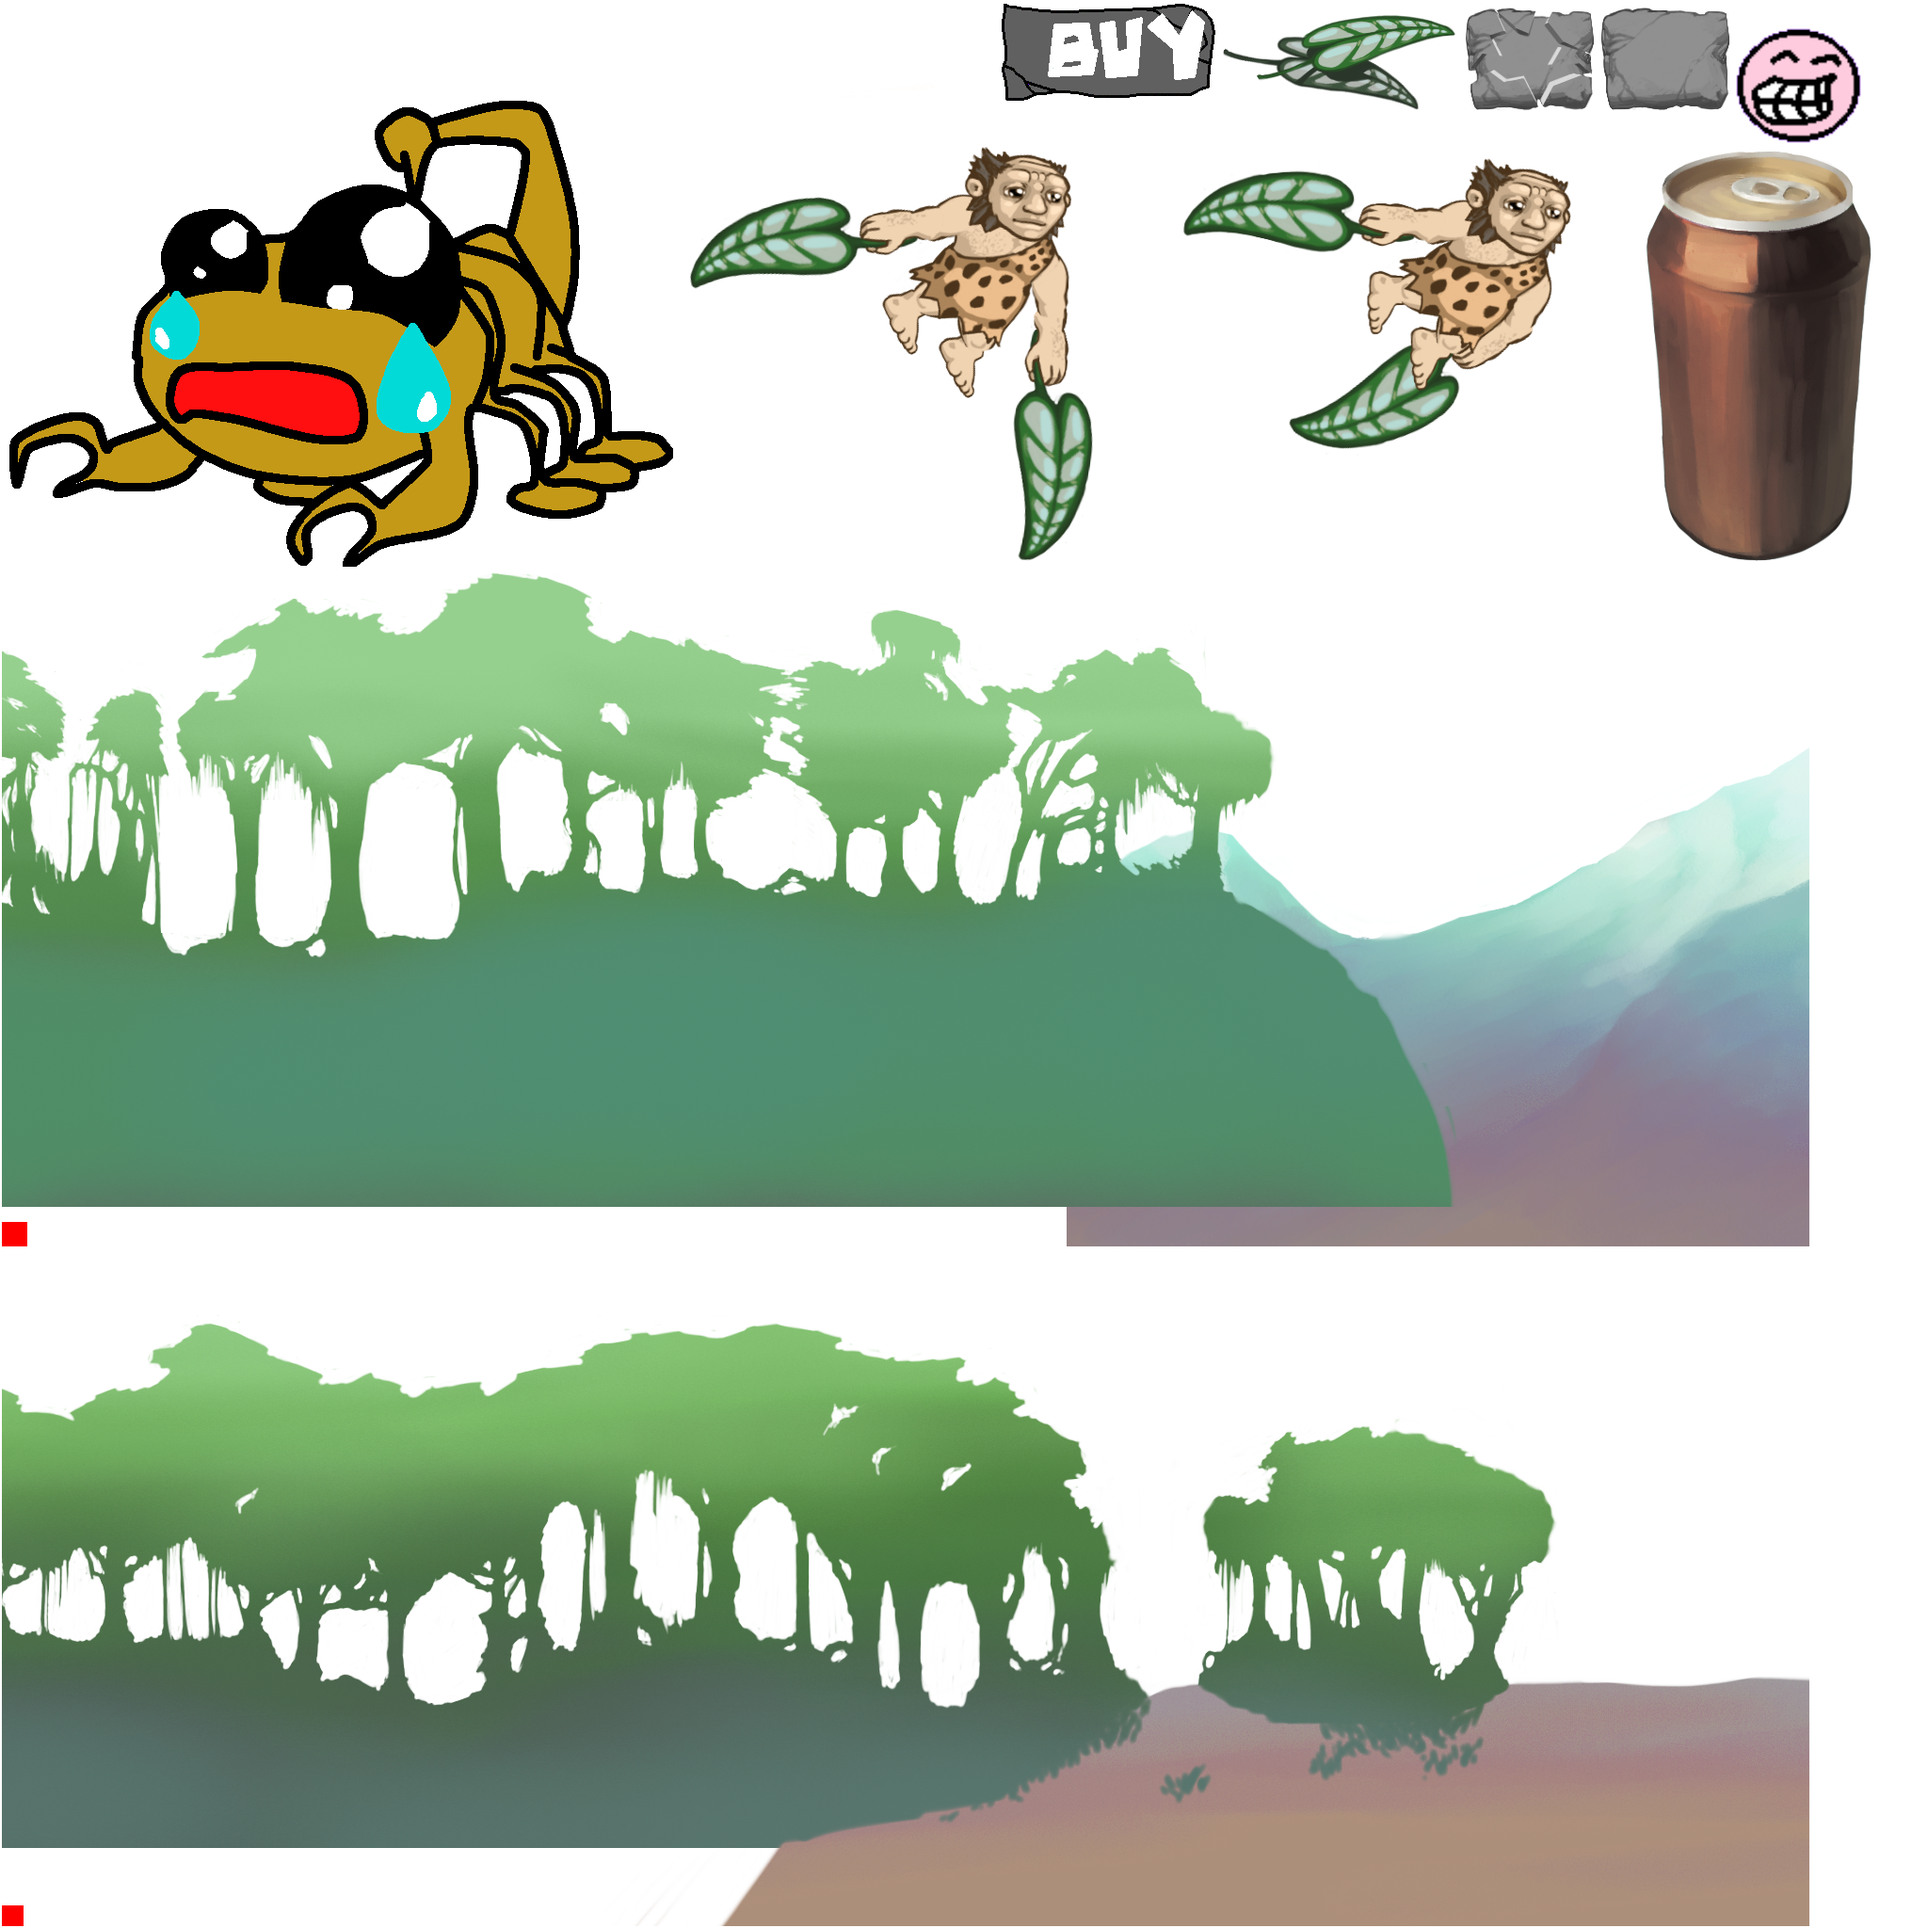
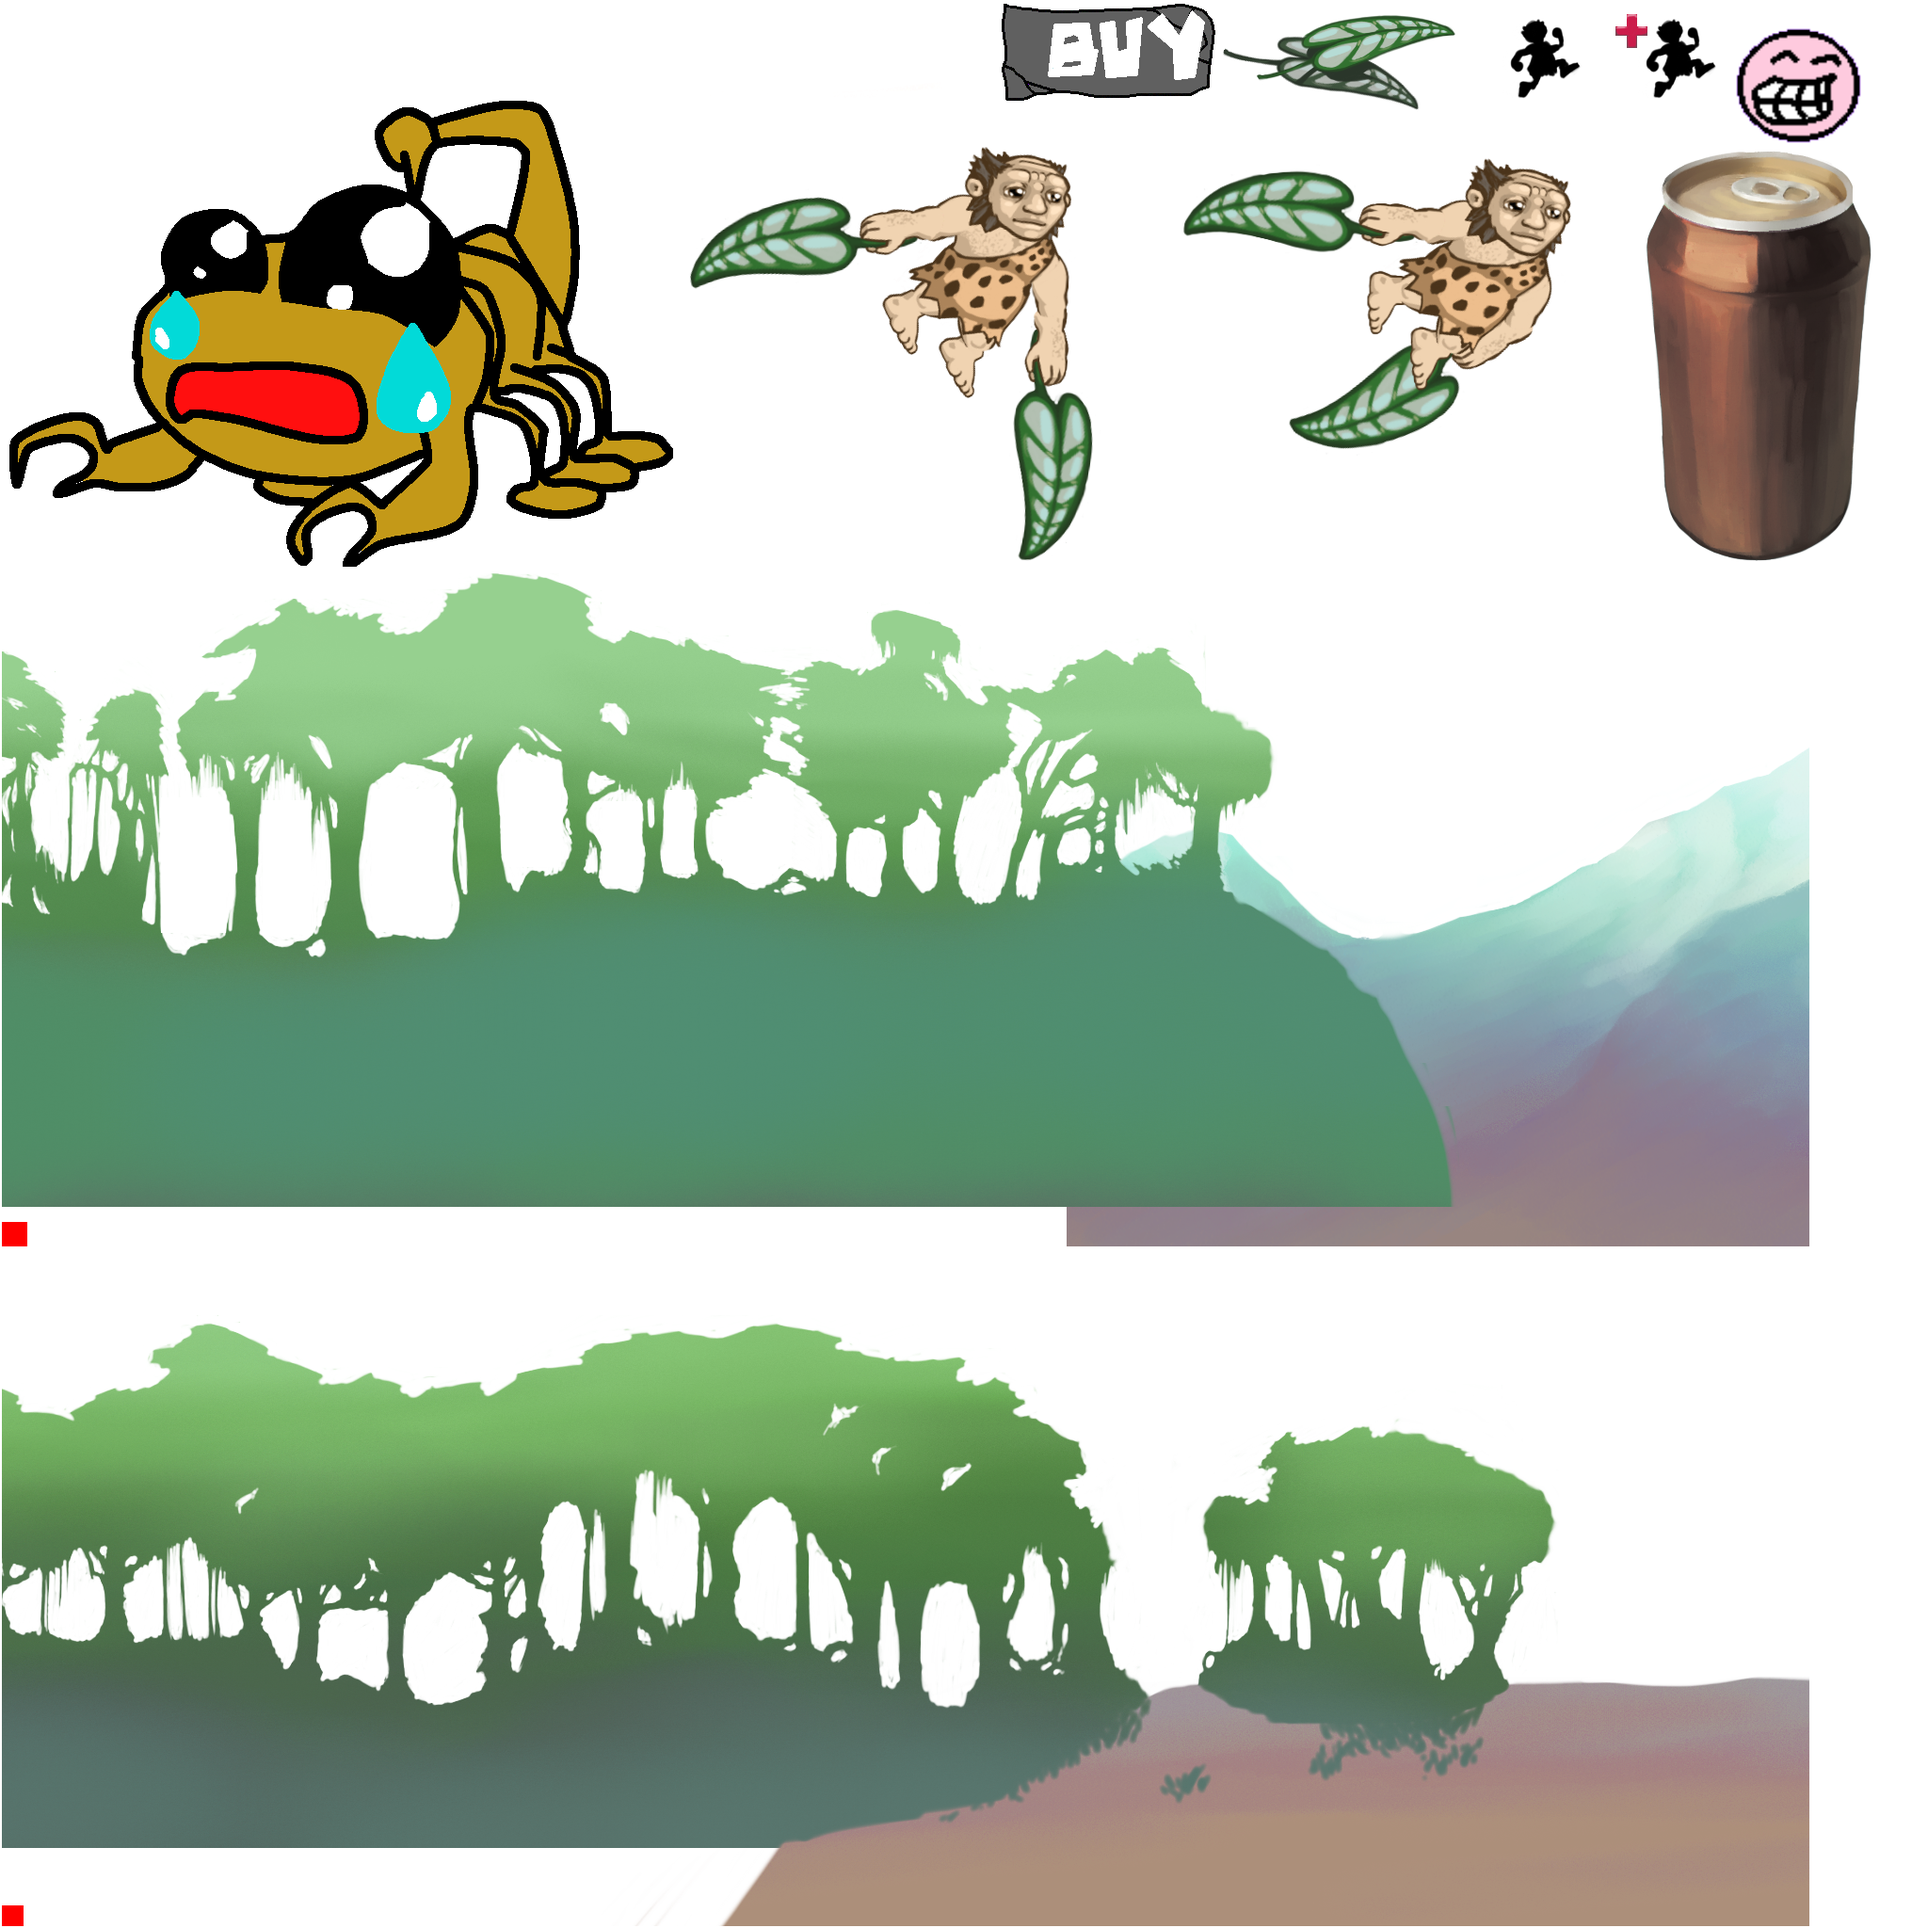
:trihard: shop button have feedback now... looks weird, but well...

Changed region(s): [[0.75, 0.0, 0.9062, 0.0625]]

diff --git a/core/src/com/deeep/flycaveman/widgets/ShopWidget.java b/core/src/com/deeep/flycaveman/widgets/ShopWidget.java
@@ -78,13 +78,13 @@ public class ShopWidget {
         retryButton.setPosition(0, 0);
         shopDialog.addActor(retryButton);
 
-        ImageButton.ImageButtonStyle wingsStyle = new ImageButton.ImageButtonStyle(Assets.skin.get(Button.ButtonStyle.class));
+        ImageButton.ImageButtonStyle wingsStyle = new ImageButton.ImageButtonStyle(Assets.skin.get("shop", Button.ButtonStyle.class));
         wingsStyle.imageUp = new TextureRegionDrawable(Assets.wings);
-        wingsStyle.imageUp.setMinWidth(140);
-        wingsStyle.imageUp.setMinHeight(140);
+        wingsStyle.imageUp.setMinWidth(100);
+        wingsStyle.imageUp.setMinHeight(100);
         wingsStyle.imageDown = new TextureRegionDrawable(Assets.wings);
-        wingsStyle.imageDown.setMinWidth(140);
-        wingsStyle.imageDown.setMinHeight(140);
+        wingsStyle.imageDown.setMinWidth(100);
+        wingsStyle.imageDown.setMinHeight(100);
         ImageButton wingsButton = new ImageButton(wingsStyle);
         wingsButton.addListener(new ClickListener() {
             @Override
@@ -96,13 +96,13 @@ public class ShopWidget {
         wingsButton.setPosition(50, shopDialog.getHeight() / 2 + 38);
         shopDialog.addActor(wingsButton);
 
-        ImageButton.ImageButtonStyle steroidsStyle = new ImageButton.ImageButtonStyle(Assets.skin.get(Button.ButtonStyle.class));
+        ImageButton.ImageButtonStyle steroidsStyle = new ImageButton.ImageButtonStyle(Assets.skin.get("shop", Button.ButtonStyle.class));
         steroidsStyle.imageUp = new TextureRegionDrawable(Assets.steroids);
-        steroidsStyle.imageUp.setMinWidth(140);
-        steroidsStyle.imageUp.setMinHeight(140);
+        steroidsStyle.imageUp.setMinWidth(100);
+        steroidsStyle.imageUp.setMinHeight(100);
         steroidsStyle.imageDown = new TextureRegionDrawable(Assets.steroids);
-        steroidsStyle.imageDown.setMinWidth(140);
-        steroidsStyle.imageDown.setMinHeight(140);
+        steroidsStyle.imageDown.setMinWidth(100);
+        steroidsStyle.imageDown.setMinHeight(100);
         ImageButton steroidsButton = new ImageButton(steroidsStyle);
         steroidsButton.addListener(new ClickListener() {
             @Override
@@ -114,13 +114,13 @@ public class ShopWidget {
         steroidsButton.setPosition(50 + 15 + 20 + wingsButton.getWidth() + 35, shopDialog.getHeight() / 2 + 38);
         shopDialog.addActor(steroidsButton);
 
-        ImageButton.ImageButtonStyle staminaplusStyle = new ImageButton.ImageButtonStyle(Assets.skin.get(Button.ButtonStyle.class));
+        ImageButton.ImageButtonStyle staminaplusStyle = new ImageButton.ImageButtonStyle(Assets.skin.get("shop", Button.ButtonStyle.class));
         staminaplusStyle.imageUp = new TextureRegionDrawable(Assets.staminaplus);
-        staminaplusStyle.imageUp.setMinWidth(140);
-        staminaplusStyle.imageUp.setMinHeight(140);
+        staminaplusStyle.imageUp.setMinWidth(100);
+        staminaplusStyle.imageUp.setMinHeight(100);
         staminaplusStyle.imageDown = new TextureRegionDrawable(Assets.staminaplus);
-        staminaplusStyle.imageDown.setMinWidth(140);
-        staminaplusStyle.imageDown.setMinHeight(140);
+        staminaplusStyle.imageDown.setMinWidth(100);
+        staminaplusStyle.imageDown.setMinHeight(100);
         ImageButton staminaplusButton = new ImageButton(staminaplusStyle);
         staminaplusButton.addListener(new ClickListener() {
             @Override
@@ -132,13 +132,13 @@ public class ShopWidget {
         staminaplusButton.setPosition(50 + 15 + 45 + wingsButton.getWidth() + steroidsButton.getWidth() + 35 + 35, shopDialog.getHeight() / 2 + 38);
         shopDialog.addActor(staminaplusButton);
 
-        ImageButton.ImageButtonStyle springsStyle = new ImageButton.ImageButtonStyle(Assets.skin.get(Button.ButtonStyle.class));
+        ImageButton.ImageButtonStyle springsStyle = new ImageButton.ImageButtonStyle(Assets.skin.get("shop", Button.ButtonStyle.class));
         springsStyle.imageUp = new TextureRegionDrawable(Assets.springs);
-        springsStyle.imageUp.setMinWidth(140);
-        springsStyle.imageUp.setMinHeight(140);
+        springsStyle.imageUp.setMinWidth(100);
+        springsStyle.imageUp.setMinHeight(100);
         springsStyle.imageDown = new TextureRegionDrawable(Assets.springs);
-        springsStyle.imageDown.setMinWidth(140);
-        springsStyle.imageDown.setMinHeight(140);
+        springsStyle.imageDown.setMinWidth(100);
+        springsStyle.imageDown.setMinHeight(100);
         ImageButton springsButton = new ImageButton(springsStyle);
         springsButton.addListener(new ClickListener() {
             @Override
@@ -150,13 +150,13 @@ public class ShopWidget {
         springsButton.setPosition(50, shopDialog.getHeight() / 2 - springsButton.getHeight() + 25);
         shopDialog.addActor(springsButton);
 
-        ImageButton.ImageButtonStyle magnetStyle = new ImageButton.ImageButtonStyle(Assets.skin.get(Button.ButtonStyle.class));
+        ImageButton.ImageButtonStyle magnetStyle = new ImageButton.ImageButtonStyle(Assets.skin.get("shop", Button.ButtonStyle.class));
         magnetStyle.imageUp = new TextureRegionDrawable(Assets.magnet);
-        magnetStyle.imageUp.setMinWidth(140);
-        magnetStyle.imageUp.setMinHeight(140);
+        magnetStyle.imageUp.setMinWidth(100);
+        magnetStyle.imageUp.setMinHeight(100);
         magnetStyle.imageDown = new TextureRegionDrawable(Assets.magnet);
-        magnetStyle.imageDown.setMinWidth(140);
-        magnetStyle.imageDown.setMinHeight(140);
+        magnetStyle.imageDown.setMinWidth(100);
+        magnetStyle.imageDown.setMinHeight(100);
         ImageButton magnetButton = new ImageButton(magnetStyle);
         magnetButton.addListener(new ClickListener() {
             @Override
@@ -168,13 +168,13 @@ public class ShopWidget {
         magnetButton.setPosition(225 + 35, shopDialog.getHeight() / 2 - magnetButton.getHeight() + 25);
         shopDialog.addActor(magnetButton);
 
-        ImageButton.ImageButtonStyle clenchStyle = new ImageButton.ImageButtonStyle(Assets.skin.get(Button.ButtonStyle.class));
+        ImageButton.ImageButtonStyle clenchStyle = new ImageButton.ImageButtonStyle(Assets.skin.get("shop", Button.ButtonStyle.class));
         clenchStyle.imageUp = new TextureRegionDrawable(Assets.clench);
-        clenchStyle.imageUp.setMinWidth(140);
-        clenchStyle.imageUp.setMinHeight(140);
+        clenchStyle.imageUp.setMinWidth(100);
+        clenchStyle.imageUp.setMinHeight(100);
         clenchStyle.imageDown = new TextureRegionDrawable(Assets.clench);
-        clenchStyle.imageDown.setMinWidth(140);
-        clenchStyle.imageDown.setMinHeight(140);
+        clenchStyle.imageDown.setMinWidth(100);
+        clenchStyle.imageDown.setMinHeight(100);
         ImageButton clenchButton = new ImageButton(clenchStyle);
         clenchButton.addListener(new ClickListener() {
             @Override
